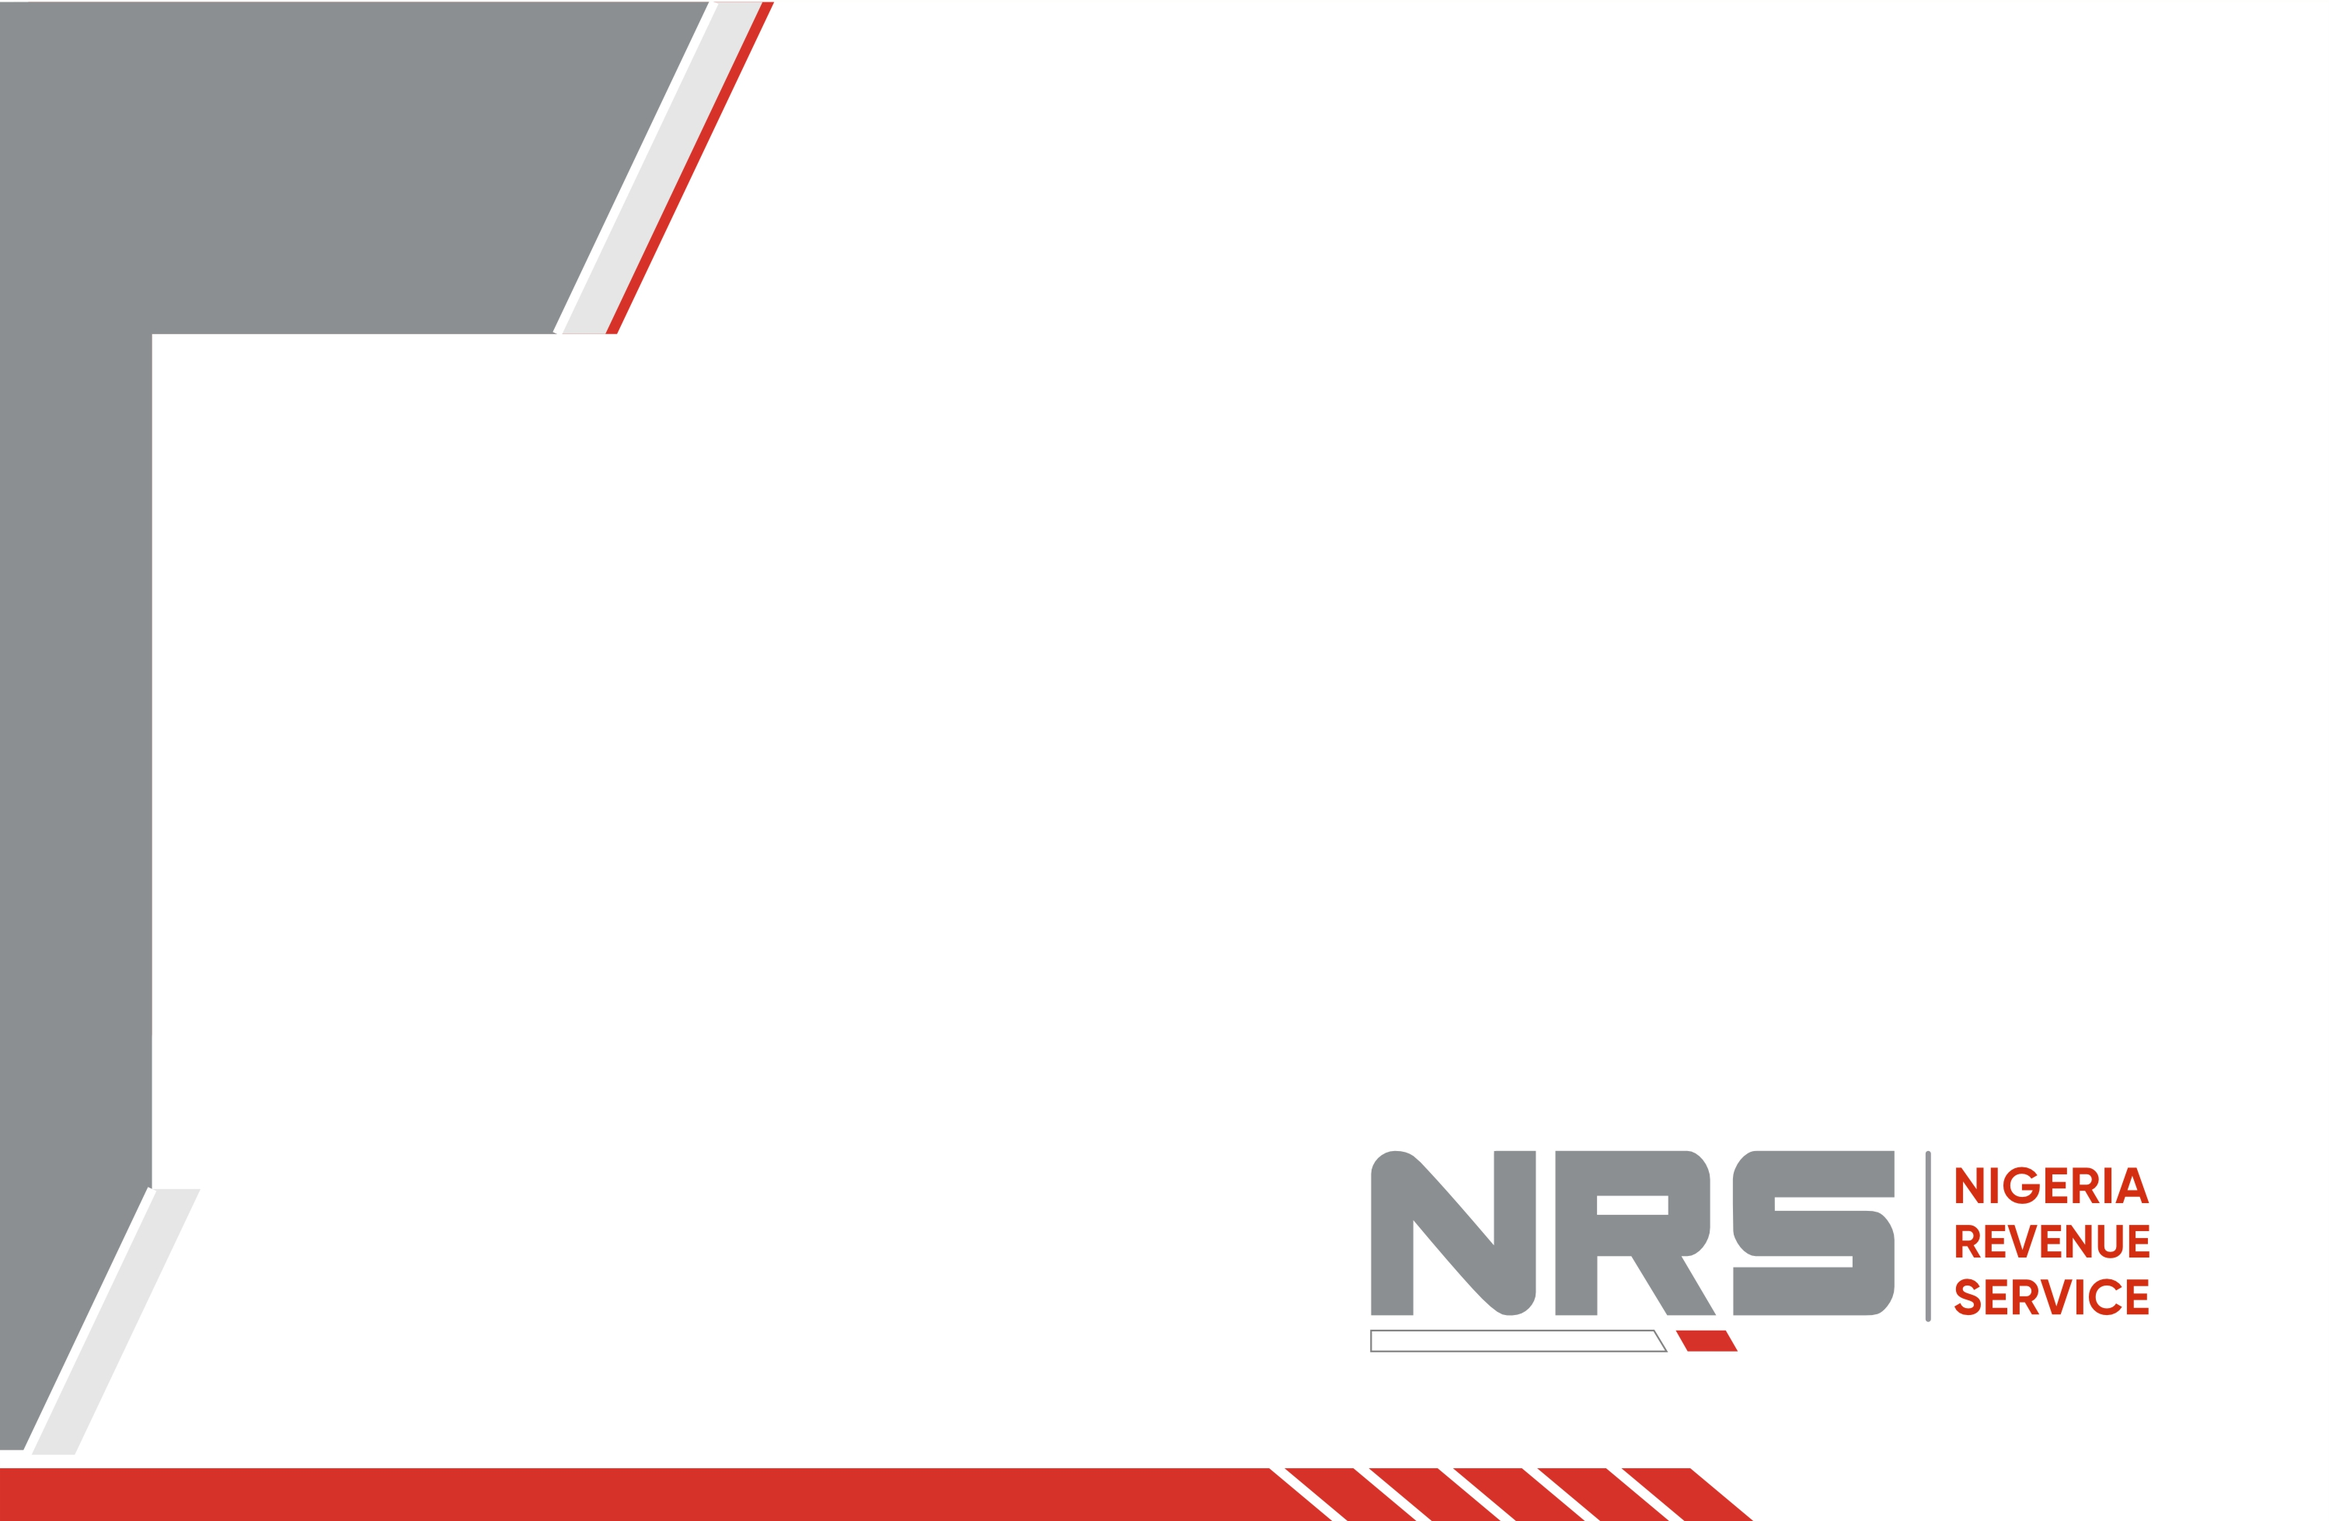
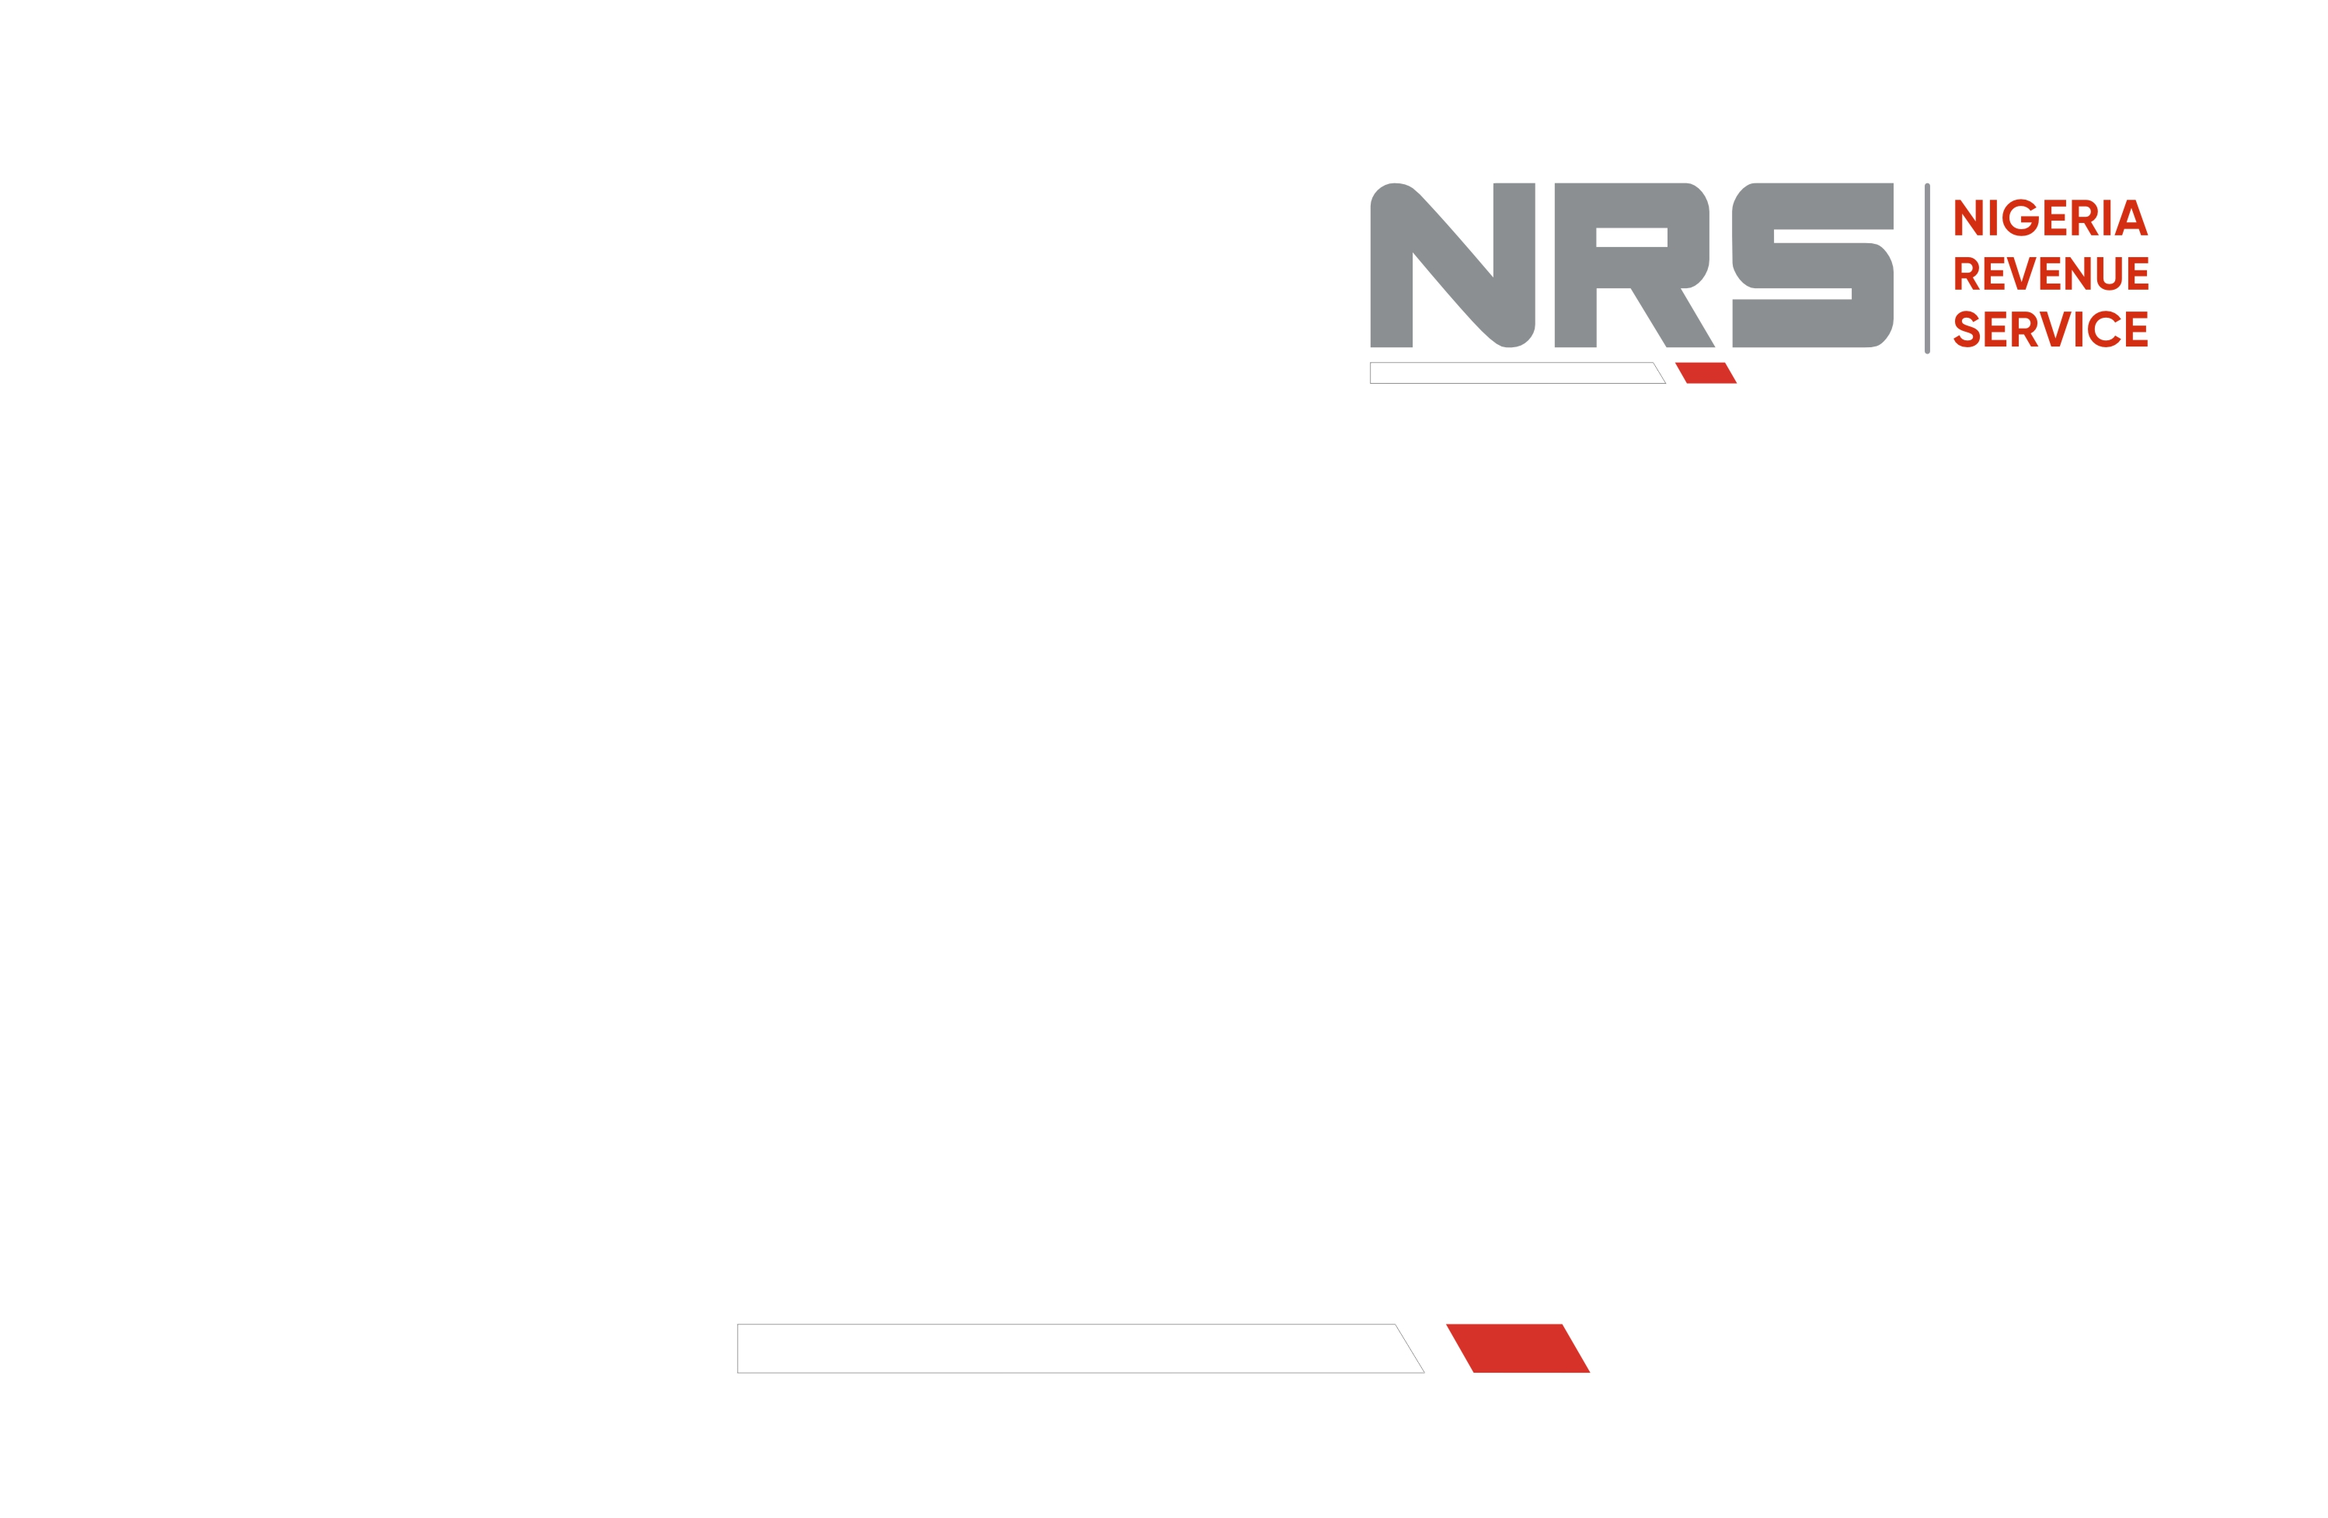
Adopt latest template

Changed region(s): [[0.0, 0.0, 0.776, 1.0], [0.5898, 0.7492, 0.9312, 0.9053], [0.5898, 0.0937, 0.9312, 0.2497]]

diff --git a/UI/src/components/Card/FrontPage.tsx b/UI/src/components/Card/FrontPage.tsx
@@ -10,6 +10,8 @@ export type FrontPageEmployee = {
   employeeId: string;
   position: string;
   consultantPrefix?: string;
+  employmentStartDate?: string;
+  employmentEndDate?: string;
 };
 
 export type FrontPageProps = {
@@ -215,7 +217,7 @@ const FrontPage: React.FC<FrontPageProps> = ({
             </p>
 
             {/* Bottom accent */}
-            {currentUserRole === "manager" && (
+            {currentUserRole === "manager" ? (
               <div className="flex items-center gap-2 mx-20 mt-2">
                 <img
                   src={nrsLogoBottomBarSrc}
@@ -223,10 +225,12 @@ const FrontPage: React.FC<FrontPageProps> = ({
                   className="h-25"
                 />
               </div>
+            ) : (
+                <div className="w-[80%] h-4 bg-red-600 mt-6 rounded-full opacity-80" />
             )}
 
             {/* Spacer */}
-            <div className="w-full flex items-center gap-2 mt-10" />
+            <div className="w-full flex items-center gap-2 mt-4" />
           </div>
         </div>
       )}
@@ -234,7 +238,8 @@ const FrontPage: React.FC<FrontPageProps> = ({
       {employee.position && (
 
         <div
-          className="relative max-w-[560px] aspect-[1.5/1] overflow-hidden border border-gray-300 bg-white shadow-xl"
+          className="relative max-w-[560px] aspect-[1.5/1] 
+          overflow-hidden border border-gray-300 bg-white shadow-xl"
           style={
             currentUserRole.toLowerCase() === "manager"
               ? {
@@ -250,13 +255,21 @@ const FrontPage: React.FC<FrontPageProps> = ({
         >
 
           {/* Content Layer */}
-          <div className="absolute inset-0">
+          <div className={
+            currentUserRole.toLowerCase() === "manager" 
+              ? "absolute inset-0" 
+              : "flex h-full w-full items-center justify-center gap-10 p-8"
+          }>
             {/* Photo block */}
-            <div className="absolute left-[9%] top-[25%]">
+            <div className={
+              currentUserRole.toLowerCase() === "manager" 
+                ? "absolute left-[9%] top-[25%]" 
+                : "flex-shrink-0"
+            }>
               <div className="relative group">
                 <div
                   ref={containerRef}
-                  className={`w-[136px] h-[170px] rounded-md overflow-hidden bg-gray-100 mb-6 relative ${isEditable && photoData ? 'cursor-move' : ''}`}
+                  className={`w-[170px] h-[170px] border-[8px] border-red-600 rounded-md overflow-hidden bg-gray-100 mb-6 relative ${isEditable && photoData ? 'cursor-move' : ''}`}
                   onMouseDown={handleMouseDown}
                 >
                   {photoData && !validating ? (
@@ -327,20 +340,28 @@ const FrontPage: React.FC<FrontPageProps> = ({
             </div>
 
             {/* Text block */}
-            <div className="absolute left-[42%] top-[27%] text-left">
-              <h3 className="text-[2rem] font-extrabold uppercase leading-none tracking-wide text-black">
+            <div className={
+              currentUserRole.toLowerCase() === "manager"
+                ? "absolute left-[42%] top-[37%] text-left"
+                : "flex flex-col text-left justify-center"
+            }>
+              <h3 className="text-[1.25rem] font-bold uppercase leading-none tracking-wide text-black">
                 {employee.name}
               </h3>
 
               <p className="mt-3 text-[1.1rem] font-medium uppercase tracking-wide text-gray-800">
-                IRCONS {employee.employeeId}
+                {employee.position.toLocaleLowerCase() === 'group director' ? 'IR' : ' IRCONS'} {employee.employeeId}
               </p>
+              {
+                employee.position.toLocaleLowerCase() !== 'group director' && (
+                  <p className="mt-2 text-[1.1rem] font-medium uppercase tracking-wide text-gray-900">
+                    {employee.position.toLocaleLowerCase() === 'consultant' && employee.consultantPrefix
+                      ? `${employee.consultantPrefix} ${employee.position}`
+                      : employee.position}
+                  </p>
+                )
+              }
 
-              <p className="mt-2 text-[1.1rem] font-medium uppercase tracking-wide text-gray-900">
-                {employee.position === 'Consultant' && employee.consultantPrefix
-                  ? `${employee.consultantPrefix} ${employee.position}`
-                  : employee.position}
-              </p>
             </div>
           </div>
         </div>

diff --git a/UI/src/components/Card/BackPage.tsx b/UI/src/components/Card/BackPage.tsx
@@ -84,12 +84,12 @@ const BackPage: React.FC<BackPageProps> = ({
             />
           </div>
 
-          <div className="absolute left-[51%] top-[58%] text-left flex flex-col gap-0">
-            <p className="m-0 text-[0.9rem] leading-[1.2] text-gray-800">
+          <div className="absolute left-[51%] top-[59%] text-left flex flex-col gap-0">
+            <p className="m-0 text-[0.85rem] leading-[1.2] text-gray-800">
               {moment(employee.employmentStartDate).format("DD/MM/YYYY")}
             </p>
 
-            <p className="m-0 text-[0.9rem] leading-[1.2] text-gray-800">
+            <p className="m-0 text-[0.85rem] leading-[1.2] text-gray-800">
               {moment(employee.employmentEndDate).format("DD/MM/YYYY")}
             </p>
           </div>

diff --git a/id-card-print-service/src/app/renderer.py b/id-card-print-service/src/app/renderer.py
@@ -152,7 +152,7 @@ def render_front(
     card = Image.new("RGB", (CARD_W, CARD_H), BG_COLOR)
     draw = ImageDraw.Draw(card)
 
-    name_font = _load_font(int(CARD_W * 0.07), bold=True)
+    name_font = _load_font(int(CARD_W * 0.06), bold=True)
     id_font = _load_font(int(CARD_W * 0.052), bold=True)
 
     # Logo (top centered)
@@ -355,17 +355,33 @@ def render_front_landscape(
     
     draw = ImageDraw.Draw(card)
 
-    name_font = _load_font(int(CARD_L_H * 0.08), bold=True)
+    name_font = _load_font(int(CARD_L_H * 0.07), bold=True)
     id_font = _load_font(int(CARD_L_H * 0.06), bold=False)
     role_font = _load_font(int(CARD_L_H * 0.05), bold=False)
 
-    # Photo container (matching UI 136x170)
-    pw = int(CARD_L_W * 0.24) 
-    ph = int(pw * 1.25)
+    # Photo container (matching UI 170x170 in 560px container)
+    pw = int(CARD_L_W * (170.0 / 560.0)) 
+    ph = pw  # Square container
     px = int(CARD_L_W * 0.09) # from left
     py = int(CARD_L_H * 0.25)
     
-    radius = int(pw * 0.05)
+    # Border similar to UI: border-[8px]
+    border = int(CARD_L_W * (8.0 / 560.0))
+    radius = int(pw * 0.035)  # approximate rounded-md
+    
+    # Draw red border background block like render_front does
+    draw.rounded_rectangle(
+        (px - border, py - border, px + pw + border, py + ph + border),
+        radius=radius + border,
+        fill=RED
+    )
+    
+    # Fill inner container with white
+    draw.rounded_rectangle(
+        (px, py, px + pw, py + ph),
+        radius=radius,
+        fill="white"
+    )
     
     photo = _load_image_from_url_or_path(photo_url).convert("RGB")
     photo = ImageOps.exif_transpose(photo)
@@ -384,8 +400,8 @@ def render_front_landscape(
     new_h = int(h * current_scale)
     photo = photo.resize((new_w, new_h), Image.LANCZOS)
     
-    # Calculate scale to DPI (container width in UI is 136px)
-    scale_to_dpi = pw / 136.0
+    # Calculate scale to DPI (container width in UI is 170px)
+    scale_to_dpi = pw / 170.0
     offset_x = int(photo_x * scale_to_dpi)
     offset_y = int(photo_y * scale_to_dpi)
 
@@ -410,25 +426,49 @@ def render_front_landscape(
     card.paste(photo_layer, (0, 0), final_mask)
     
     # Name + ID + Role
-    text_x = int(CARD_L_W * 0.42) 
-    text_y = int(CARD_L_H * 0.27)
-    
-    draw.text((text_x, text_y), (full_name or "").upper(), font=name_font, fill="#000000")
-    
-    id_y = text_y + name_font.size + int(CARD_L_H * 0.05)
-    e_id = (employee_id or '').strip()
-    id_text = f"IRCONS {e_id}"
-    draw.text((text_x, id_y), id_text.upper(), font=id_font, fill="#000000")
-    
-    role_y = id_y + id_font.size + int(CARD_L_H * 0.03)
-    
-    final_role = (role or "CONTRACTOR").upper()
-    if final_role == "CONSULTANT" and consultant_prefix:
-        display_role = f"{consultant_prefix} {final_role}"
-    else:
-        display_role = final_role
+    text_x = int(CARD_L_W * 0.42)
+    text_y = int(CARD_L_H * 0.37)
+    max_text_w = CARD_L_W - text_x - int(CARD_L_W * 0.03)  # right margin
 
-    draw.text((text_x, role_y), display_role.upper(), font=role_font, fill="#000000")
+    # Word-wrap the name so long names spill onto a second line
+    name_upper = (full_name or "").upper()
+    name_words = name_upper.split()
+    name_lines = []
+    current_line: list[str] = []
+    for word in name_words:
+        test = " ".join(current_line + [word])
+        if draw.textlength(test, font=name_font) <= max_text_w:
+            current_line.append(word)
+        else:
+            if current_line:
+                name_lines.append(" ".join(current_line))
+            current_line = [word]
+    if current_line:
+        name_lines.append(" ".join(current_line))
+
+    line_h = int(name_font.size * 1.15)
+    for i, line in enumerate(name_lines):
+        draw.text((text_x, text_y + i * line_h), line, font=name_font, fill="#000000")
+
+    name_block_h = len(name_lines) * line_h
+    id_y = text_y + name_block_h + int(CARD_L_H * 0.03)
+    e_id = (employee_id or '').strip()
+
+    final_role = (role or "CONTRACTOR").upper()
+    if final_role == "GROUP DIRECTOR":
+        id_text = f"IR {e_id}"
+    else:
+        id_text = f"IRCONS {e_id}"
+
+    draw.text((text_x, id_y), id_text.upper(), font=id_font, fill="#000000")
+
+    if final_role != "GROUP DIRECTOR":
+        role_y = id_y + id_font.size + int(CARD_L_H * 0.02)
+        if final_role == "CONSULTANT" and consultant_prefix:
+            display_role = f"{consultant_prefix} {final_role}"
+        else:
+            display_role = final_role
+        draw.text((text_x, role_y), display_role.upper(), font=role_font, fill="#000000")
 
     return card
 
@@ -461,12 +501,13 @@ def render_back_landscape(
 
     qr_img = qr.make_image(fill_color="black", back_color="white").convert("RGBA")
     
-    qw = int(CARD_L_W * 0.13)
+    qw = int(CARD_L_W * (85.5 / 560.0))
     qh = qw
     qr_img = qr_img.resize((qw, qh), Image.LANCZOS)
     
-    qx = int(CARD_L_W * 0.092)     
-    qy = int(CARD_L_H * 0.41)     
+    qx_center = int(CARD_L_W * 0.155)
+    qx = qx_center - (qw // 2)
+    qy = int(CARD_L_H * 0.385)
     
     card.paste(qr_img, (qx, qy), qr_img)
     draw = ImageDraw.Draw(card)
@@ -475,7 +516,7 @@ def render_back_landscape(
     if employment_start_date or employment_end_date:
         date_font = _load_font(int(CARD_L_H * 0.045), bold=False)
         date_x = int(CARD_L_W * 0.51)
-        date_y_start = int(CARD_L_H * 0.58)
+        date_y_start = int(CARD_L_H * 0.59)
         
         if employment_start_date:
             start_str = employment_start_date.strftime("%d/%m/%Y")

diff --git a/id-card-print-service/src/app/schemas.py b/id-card-print-service/src/app/schemas.py
@@ -1,7 +1,7 @@
 from typing import List, Optional
 from datetime import datetime
 
-from pydantic import BaseModel, ConfigDict, Field
+from pydantic import BaseModel, ConfigDict, Field, field_validator
 
 from .models import JobStatus
 
@@ -71,6 +71,13 @@ class EmployeeCreate(APIModel):
     employment_start_date: Optional[datetime] = Field(default=None, alias="employmentStartDate")
     employment_end_date: Optional[datetime] = Field(default=None, alias="employmentEndDate")
 
+    @field_validator("employment_start_date", "employment_end_date", mode="before")
+    @classmethod
+    def parse_empty_date(cls, v):
+        if v == "":
+            return None
+        return v
+
 
 class EmployeeUpdate(APIModel):
     name: Optional[str] = None
@@ -78,6 +85,13 @@ class EmployeeUpdate(APIModel):
     consultant_prefix: Optional[str] = Field(default=None, alias="consultantPrefix")
     employment_start_date: Optional[datetime] = Field(default=None, alias="employmentStartDate")
     employment_end_date: Optional[datetime] = Field(default=None, alias="employmentEndDate")
+
+    @field_validator("employment_start_date", "employment_end_date", mode="before")
+    @classmethod
+    def parse_empty_date(cls, v):
+        if v == "":
+            return None
+        return v
 
 
 class EmployeeRoleUpdate(APIModel):
@@ -100,6 +114,13 @@ class EmployeeFilters(APIModel):
     start_date: Optional[datetime] = Field(default=None, alias="startDate")
     end_date: Optional[datetime] = Field(default=None, alias="endDate")
     request_status: Optional[str] = Field(default=None, alias="requestStatus")
+
+    @field_validator("start_date", "end_date", mode="before")
+    @classmethod
+    def parse_empty_date(cls, v):
+        if v == "":
+            return None
+        return v
 
 
 class BulkEmailRequest(APIModel):
